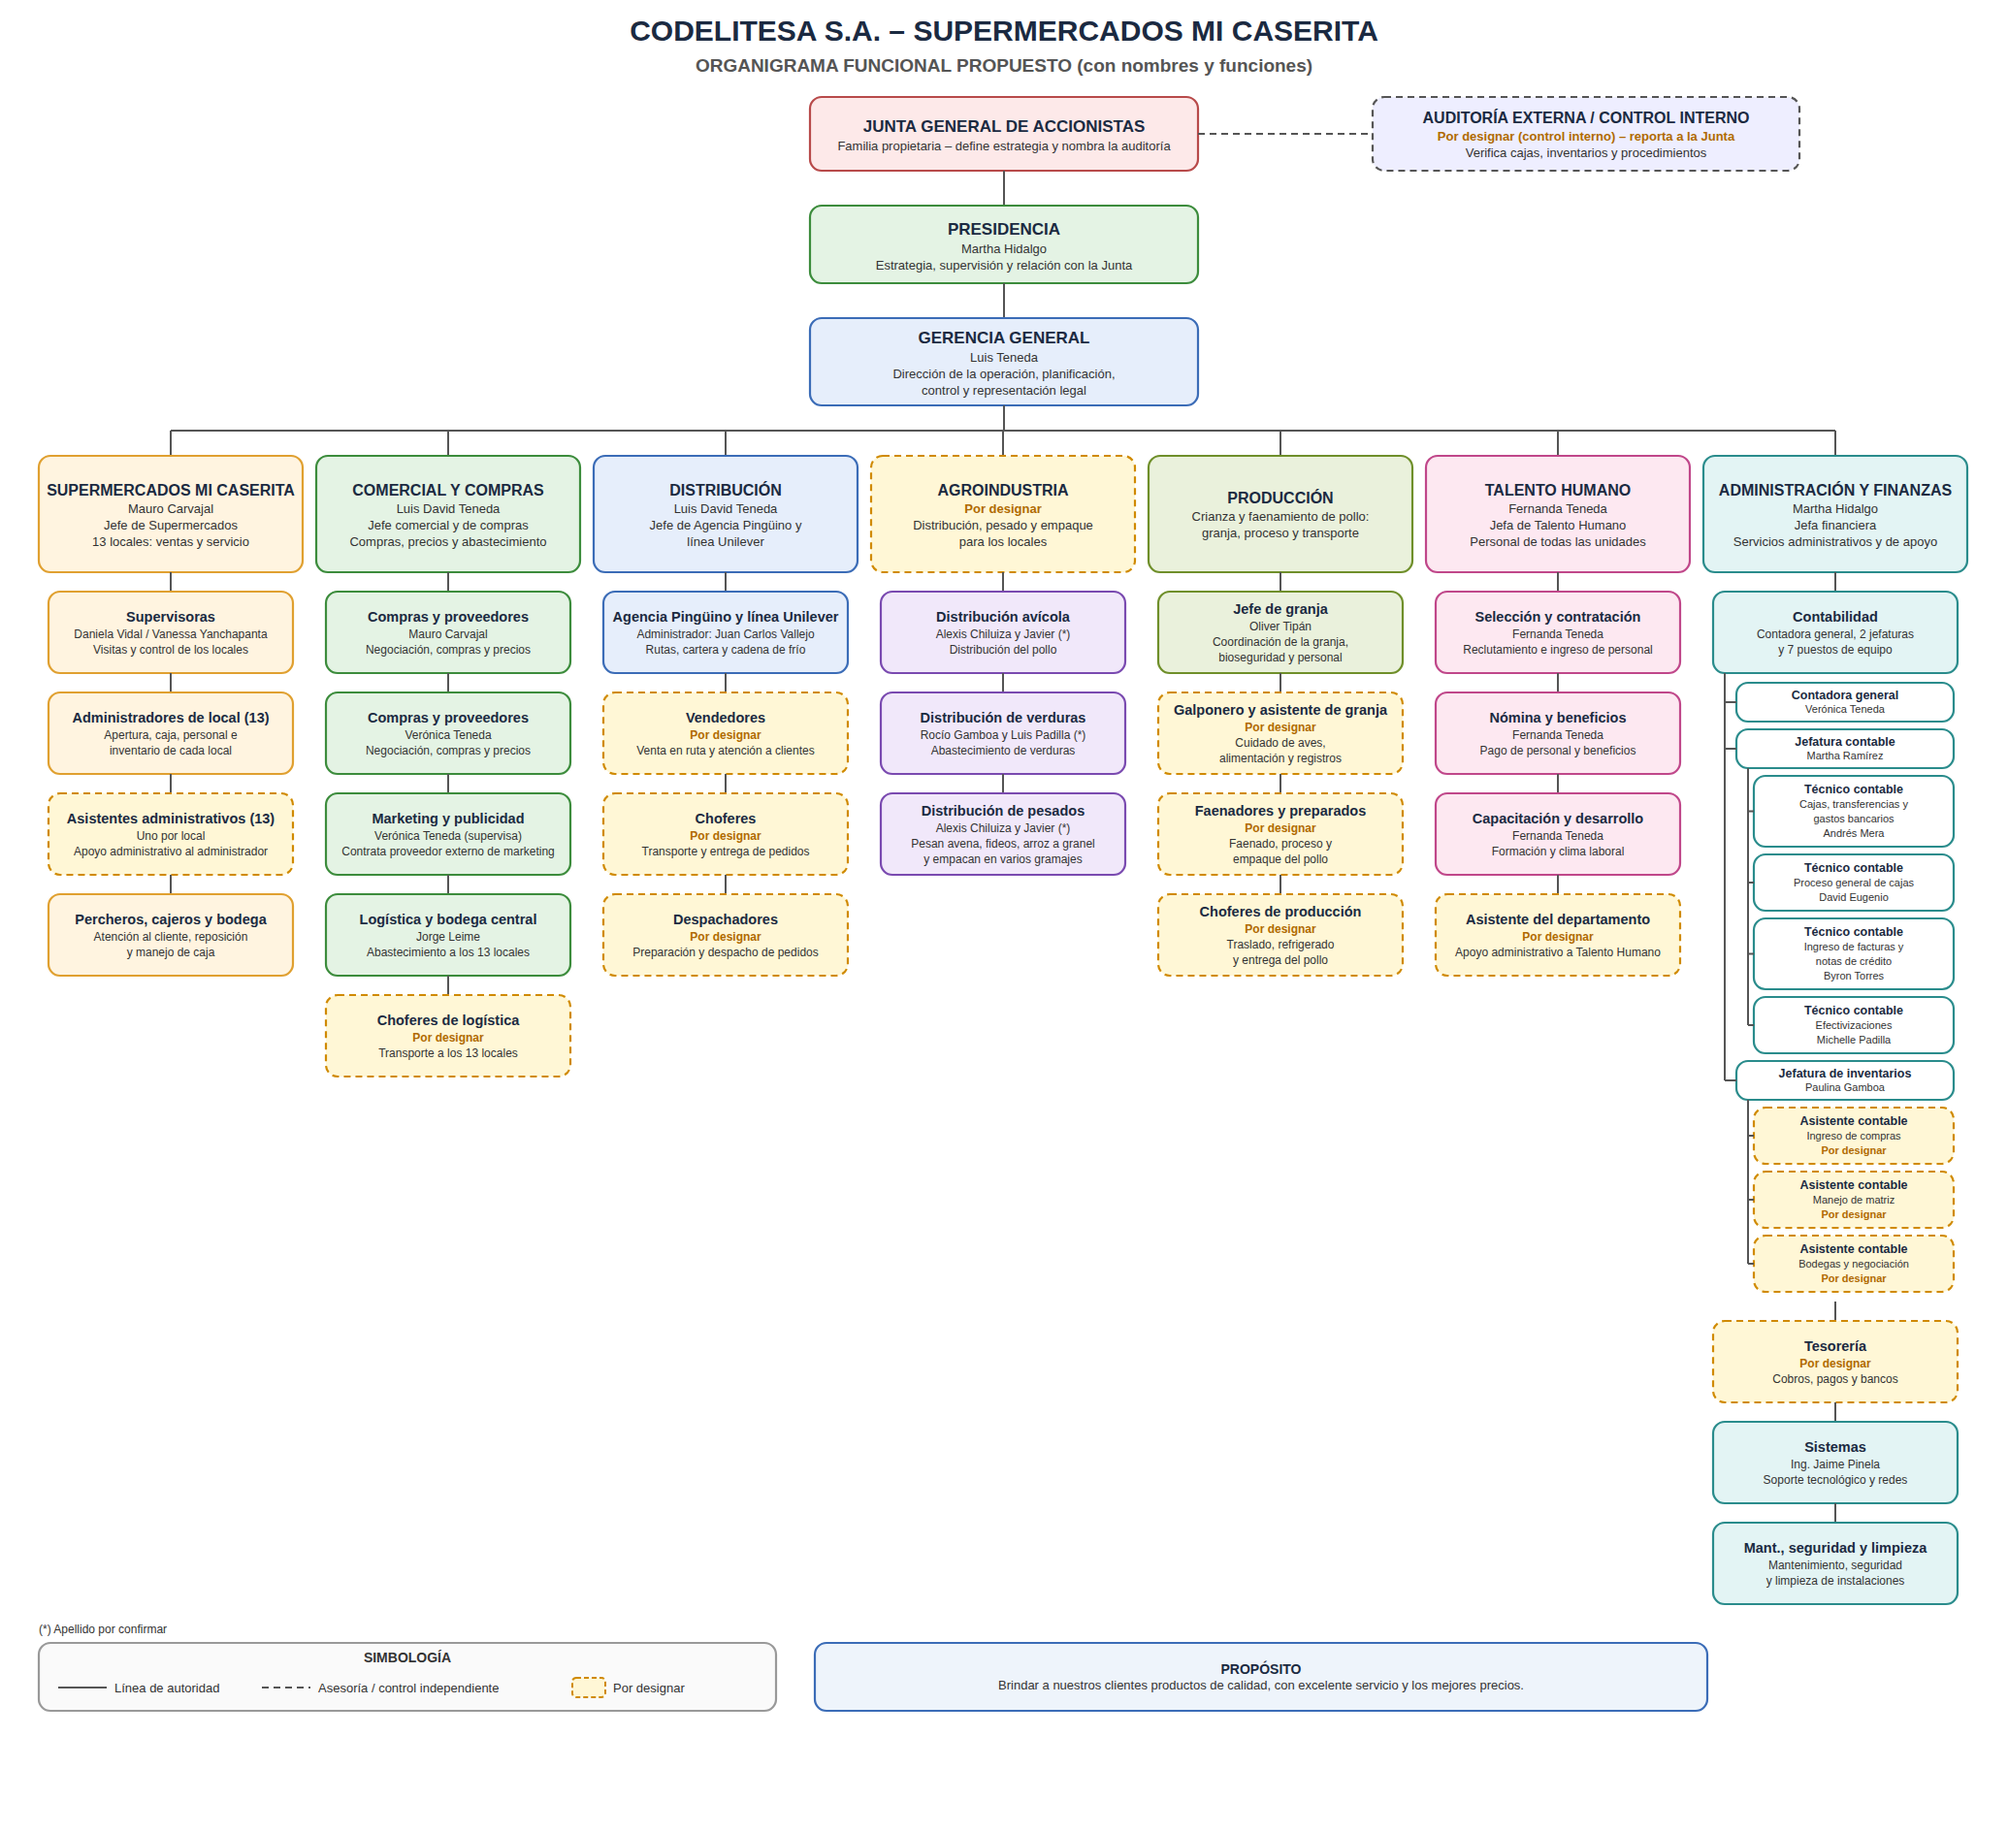
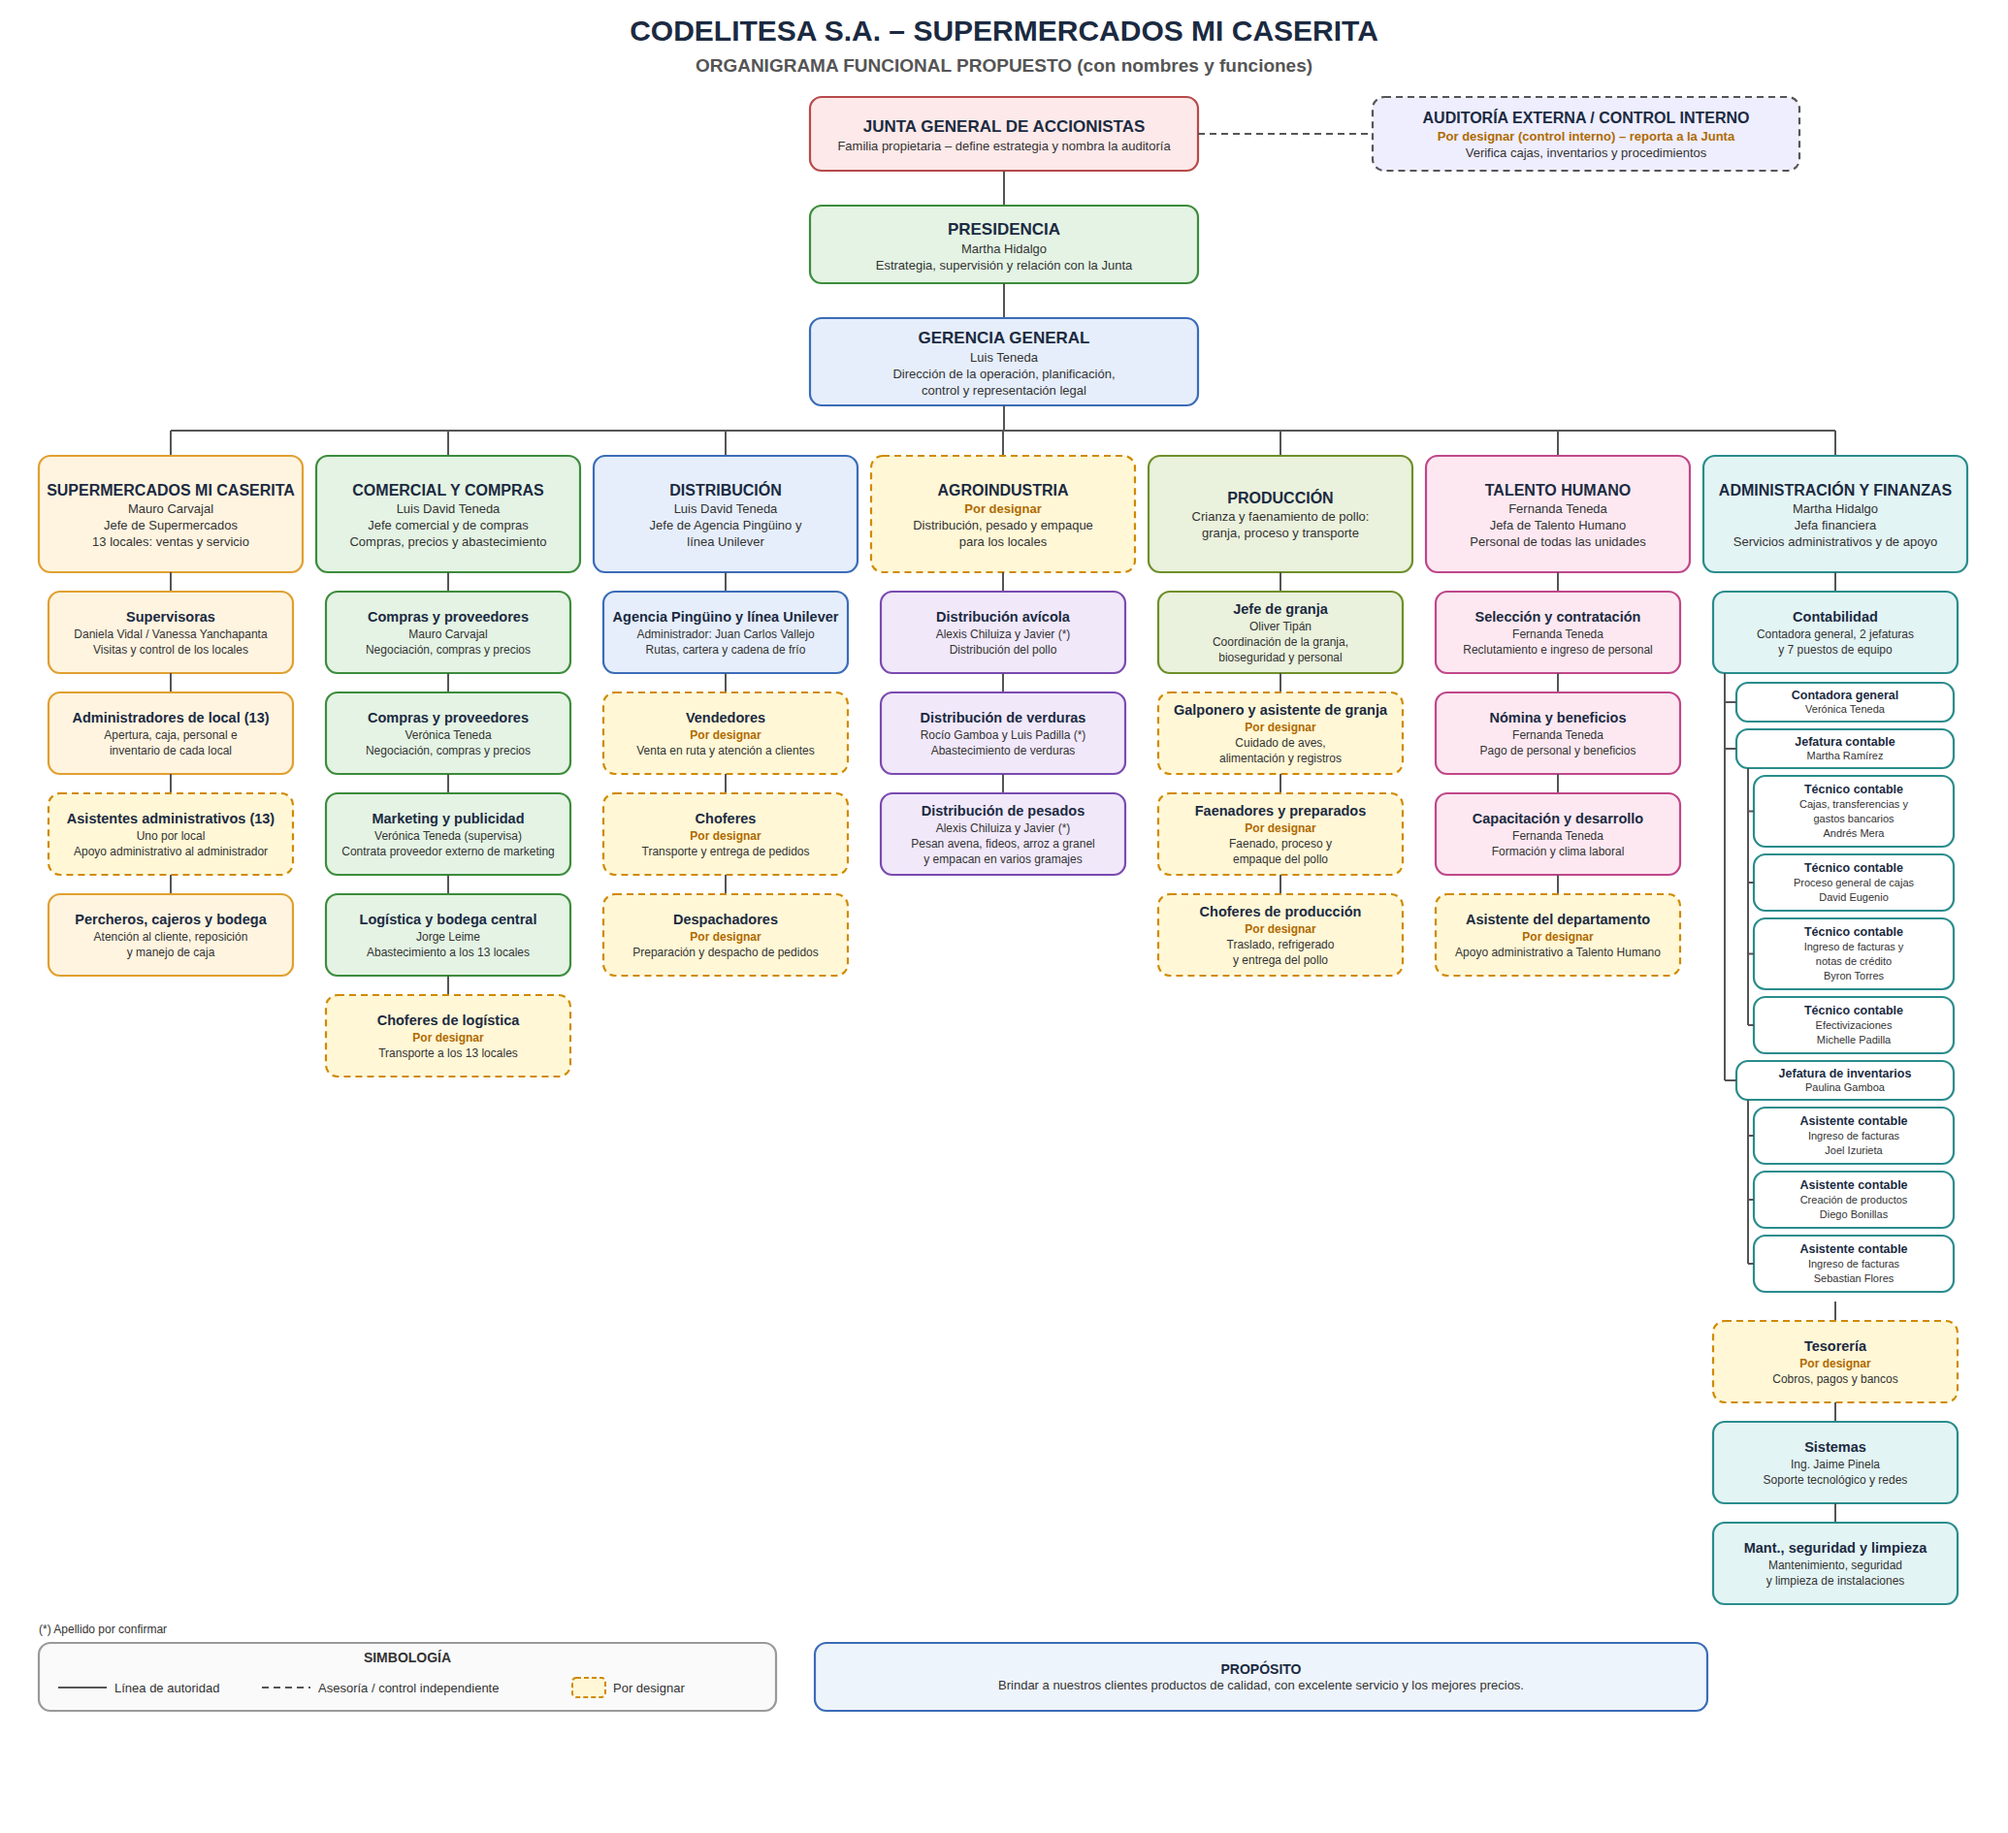
Nombrar asistentes contables de la Jefatura de inventarios
Claude-Session: https://claude.ai/code/session_012Bb6M7hyJwwVBojnoHpByV

Changed region(s): [[0.8657, 0.5931, 0.9894, 0.718]]

diff --git a/organigrama/gen.py b/organigrama/gen.py
@@ -90,9 +90,9 @@ def build(func):
             ("Técnico contable",["Ingreso de facturas y","notas de crédito","Byron Torres"],0,2),
             ("Técnico contable",["Efectivizaciones","Michelle Padilla"],0,2),
             ("Jefatura de inventarios",["Paulina Gamboa"],0,1),
-            ("Asistente contable",["Ingreso de compras","Por designar"],1,2),
-            ("Asistente contable",["Manejo de matriz","Por designar"],1,2),
-            ("Asistente contable",["Bodegas y negociación","Por designar"],1,2)]),
+            ("Asistente contable",["Ingreso de facturas","Joel Izurieta"],0,2),
+            ("Asistente contable",["Creación de productos","Diego Bonillas"],0,2),
+            ("Asistente contable",["Ingreso de facturas","Sebastian Flores"],0,2)]),
         ("Tesorería",["Por designar","Cobros, pagos y bancos"],1),
         ("Sistemas",["Ing. Jaime Pinela","Soporte tecnológico y redes"],0),
         ("Mant., seguridad y limpieza",["Mantenimiento, seguridad","y limpieza de instalaciones"],0)])]
